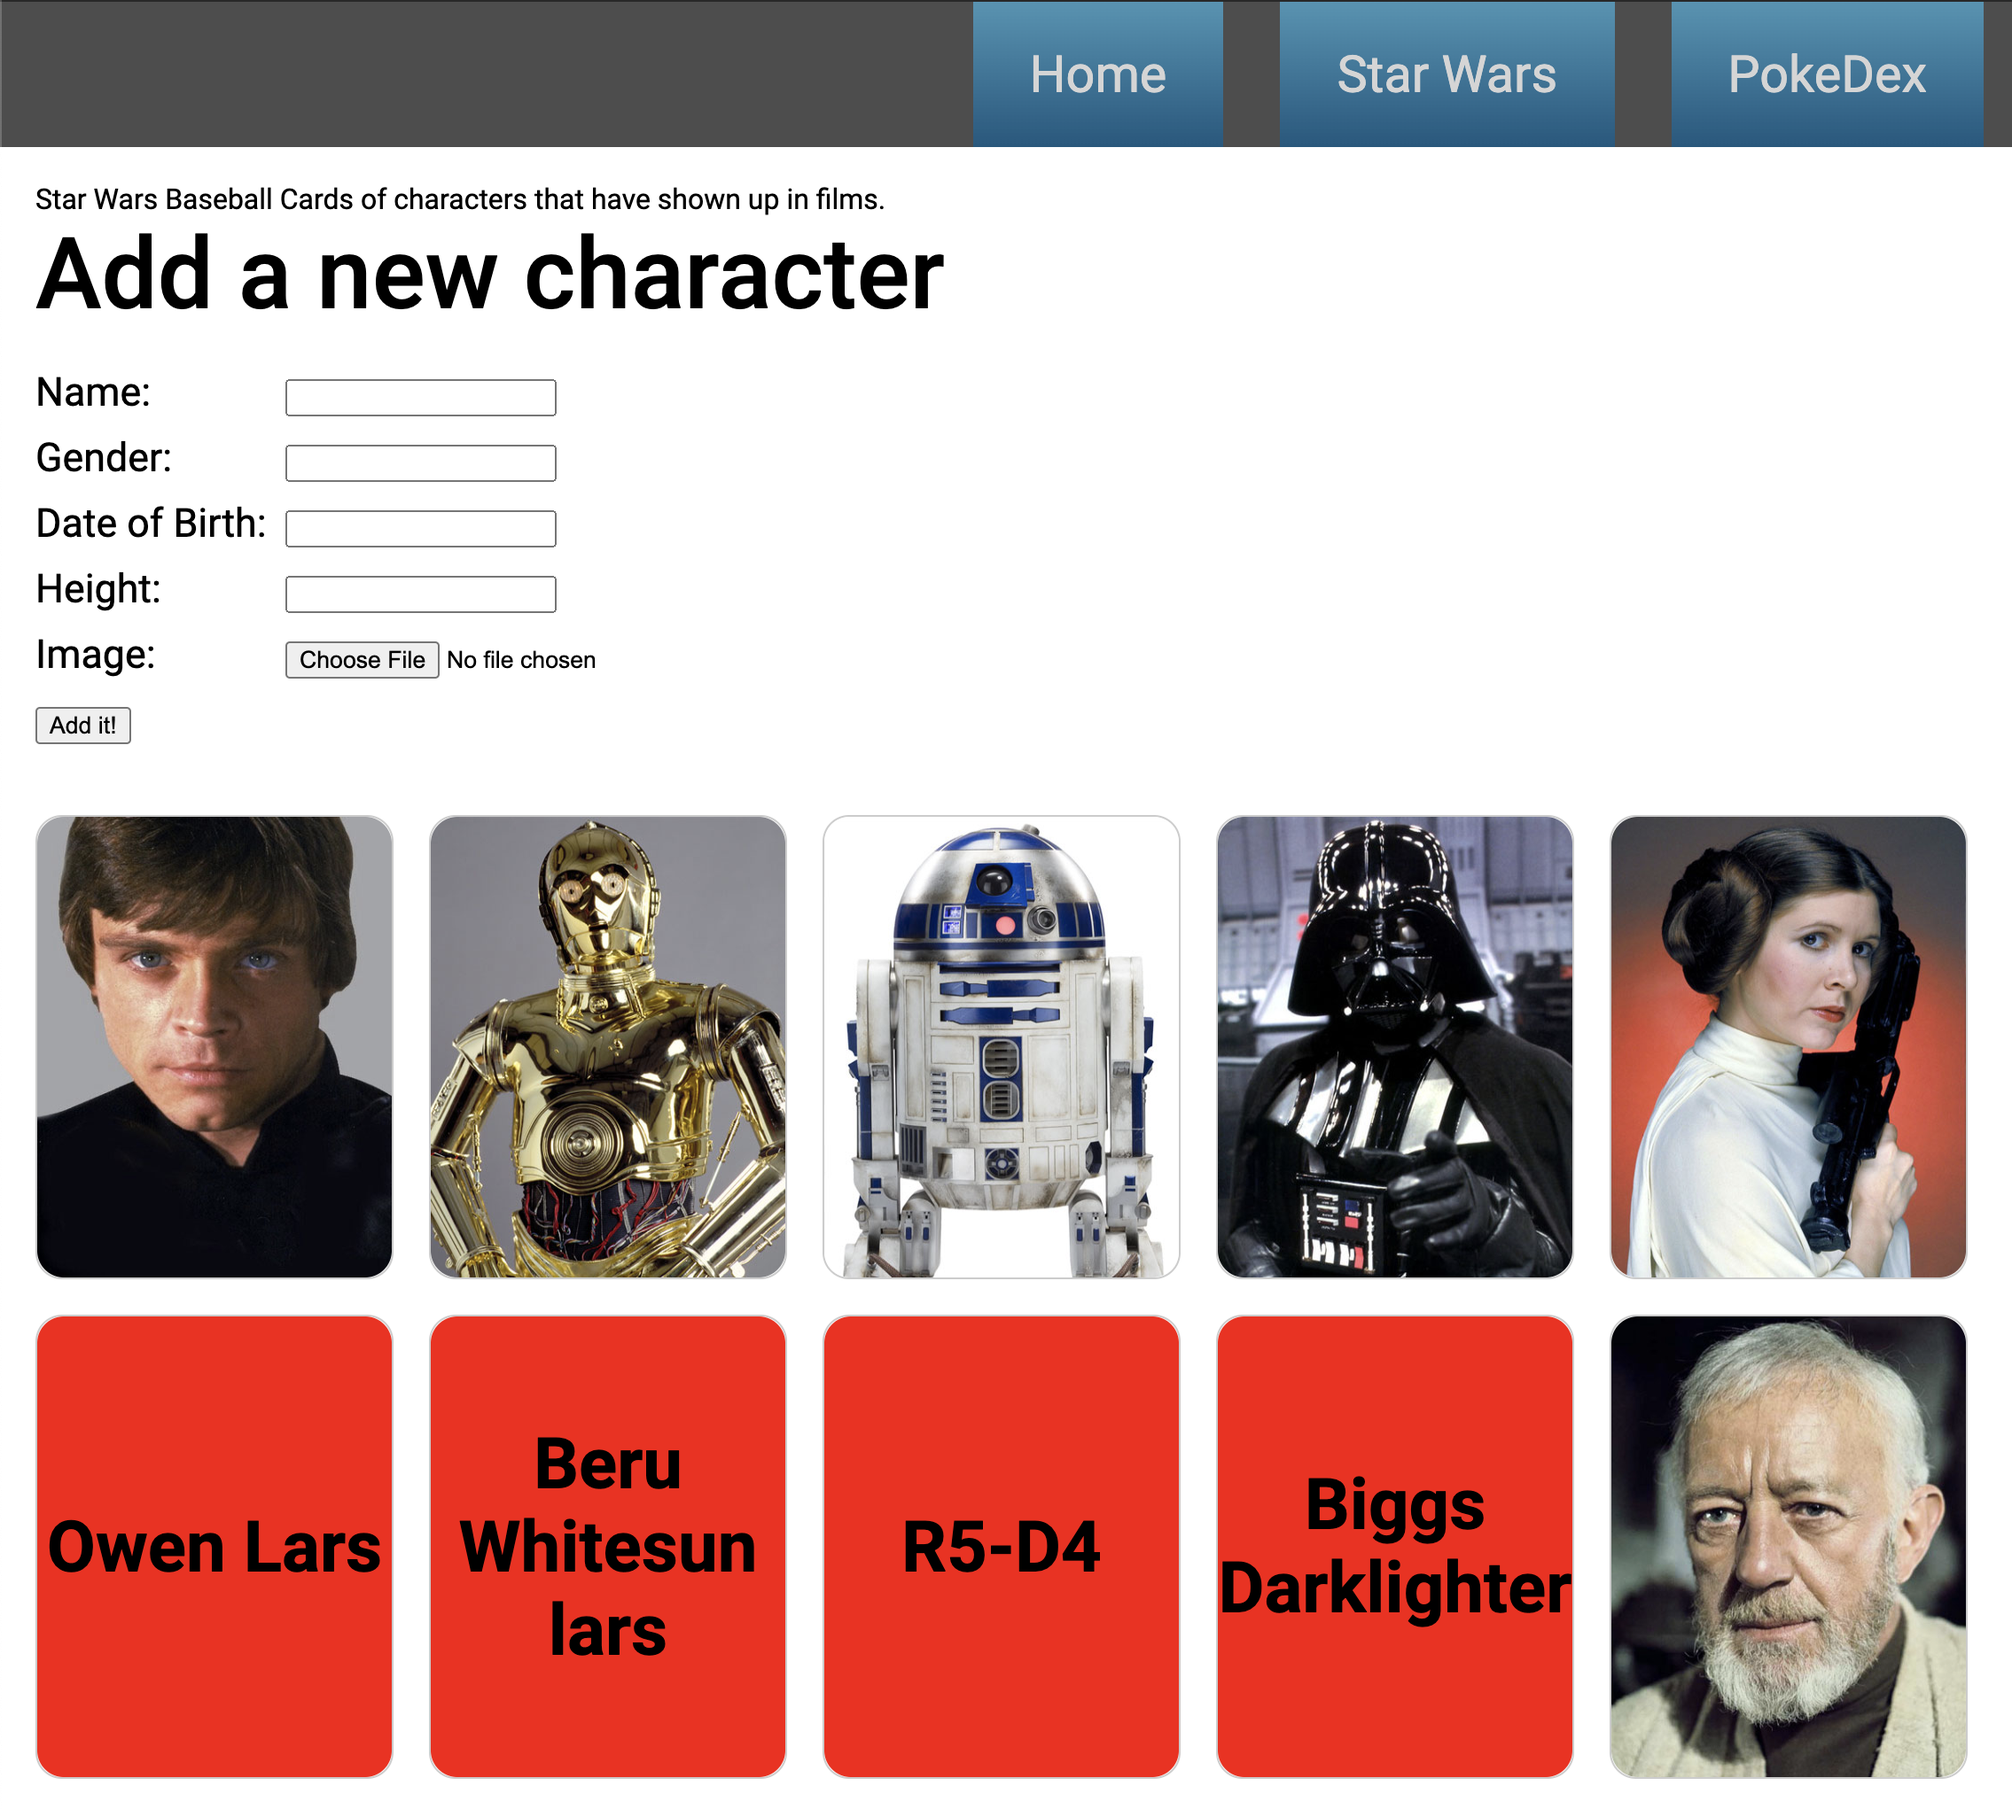
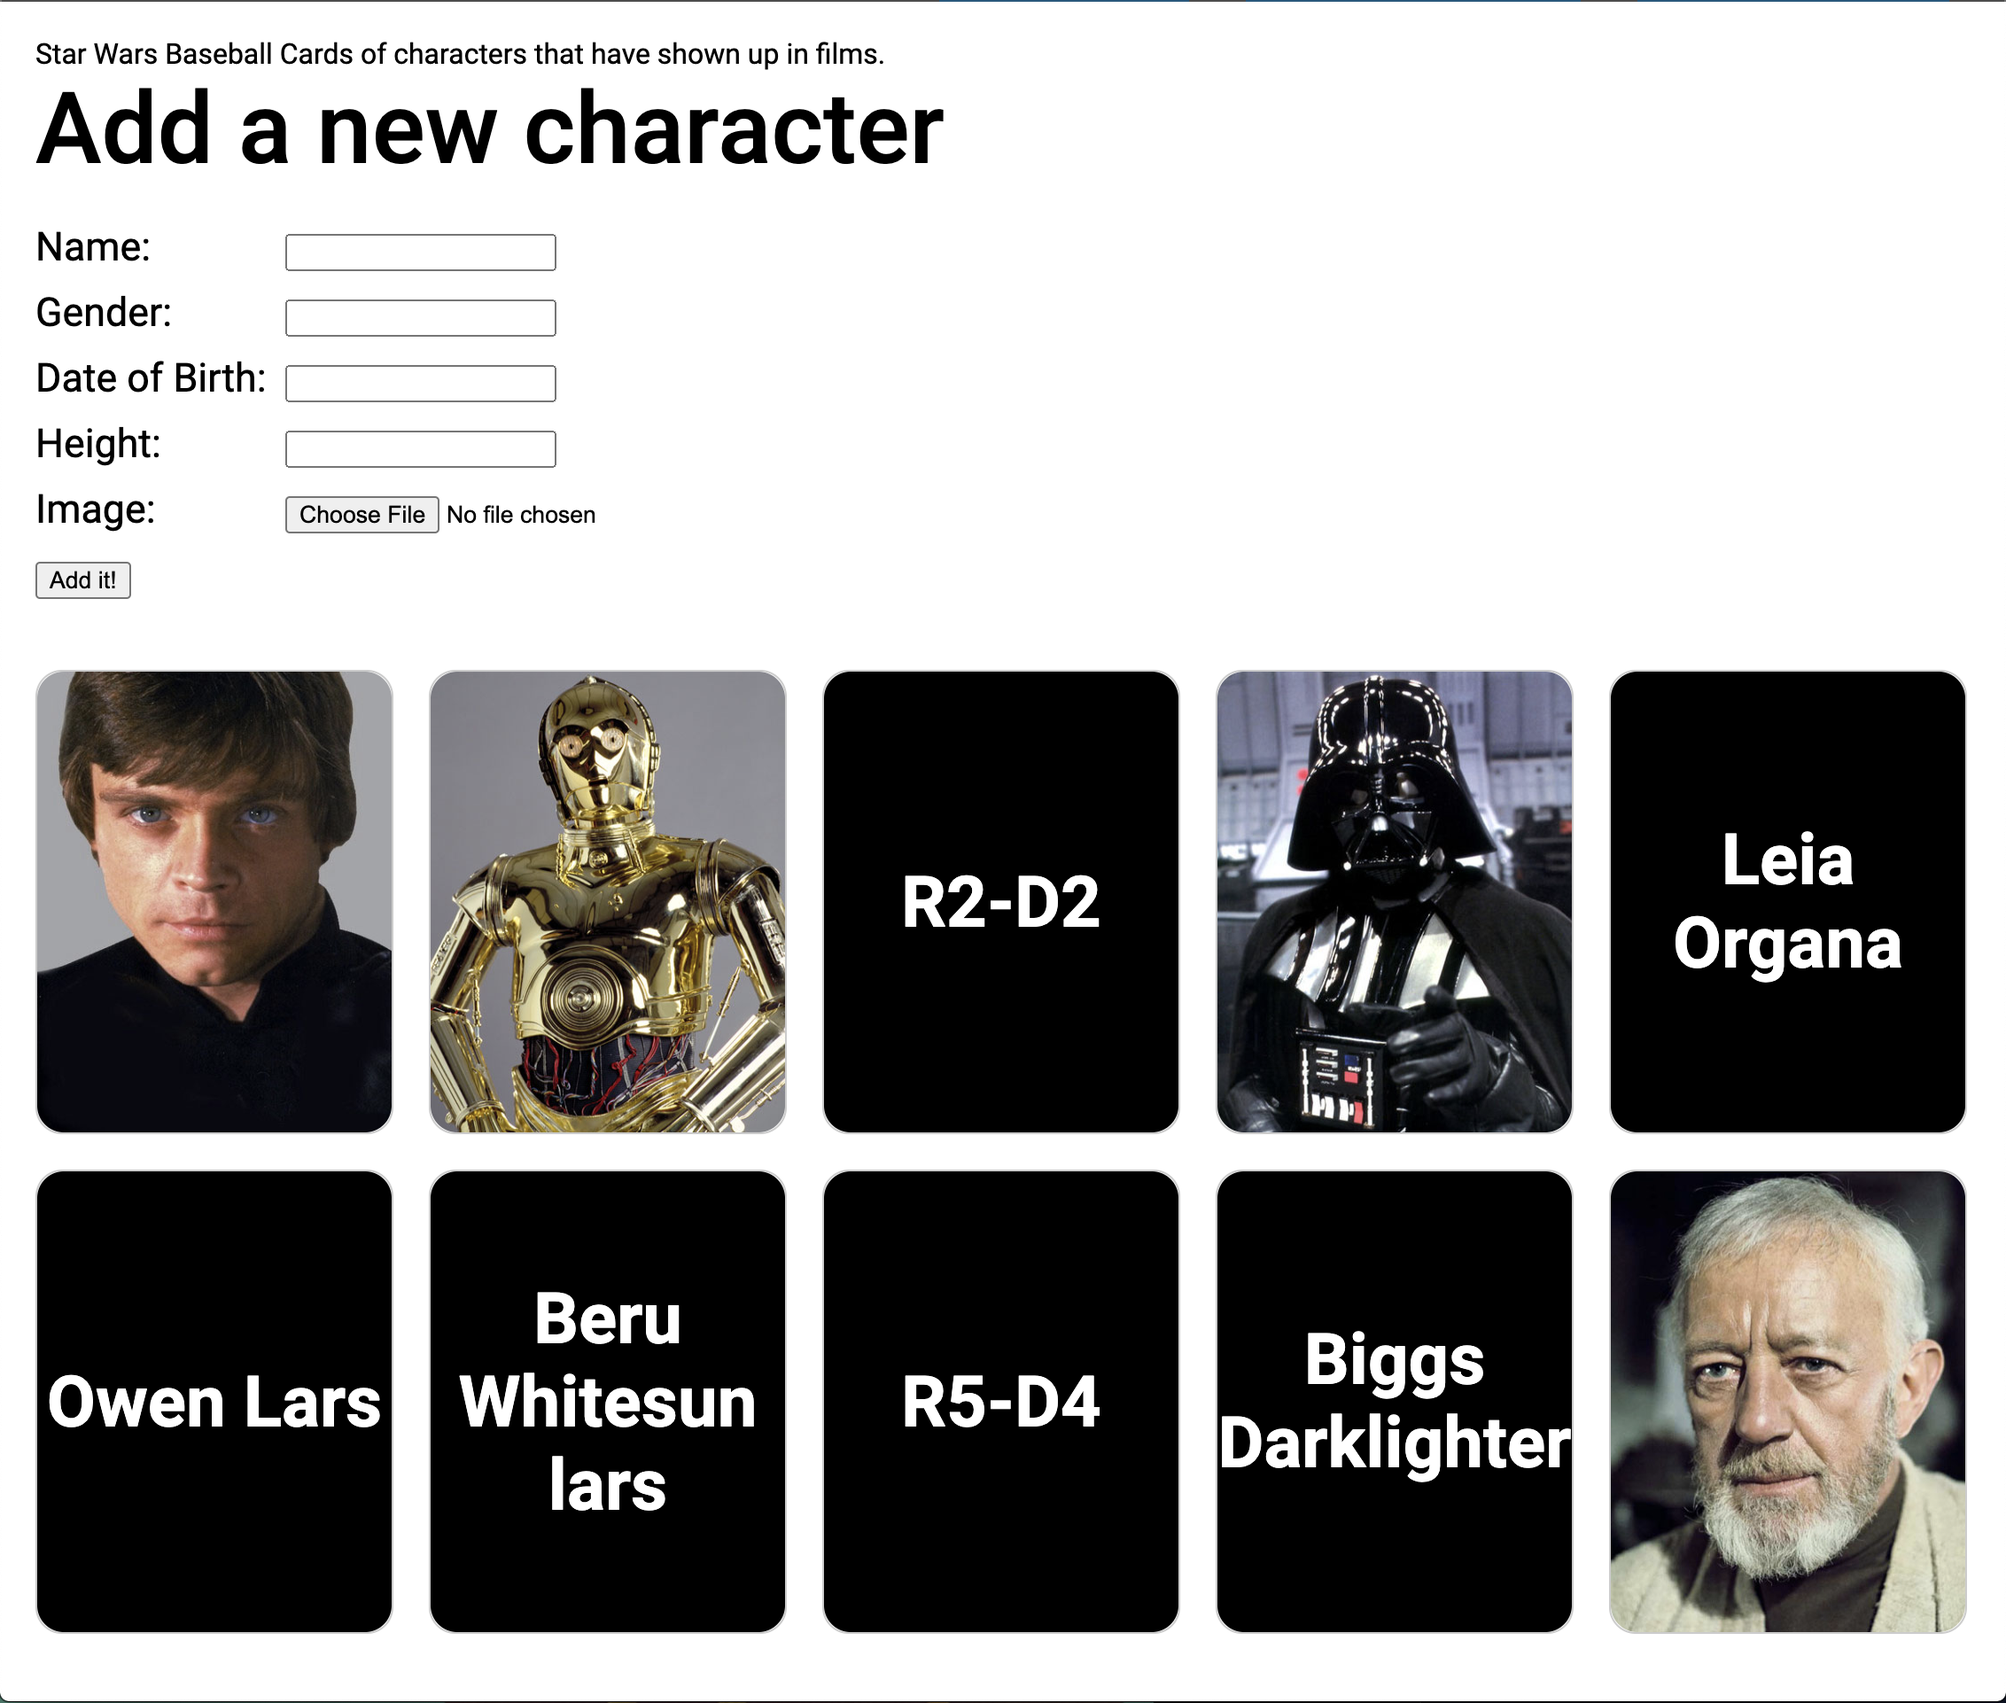
Edited size of font and edited the last section above the footer

diff --git a/index.html b/index.html
@@ -42,9 +42,7 @@
                         <h4>Old Wix Portfolio</h4>
                     </div>
                 </a>
-                <div id="project-image1">
-                    <p>Image gose here</p>
-                </div>
+                <div id="project-image1"></div>
             </div>
 
             <div class="project-tile">
@@ -53,9 +51,7 @@
                         <h4>Star Wars Project</h4>
                     </div>
                 </a>
-                <div id="project-image2">
-                    
-                </div>
+                <div id="project-image2"></div>
             </div>
 
             <div class="project-tile">
@@ -64,9 +60,7 @@
                         <h4>Pokedex</h4>
                     </div>
                 </a>
-                <div id="project-image3">
-                    <p>Image gose here</p>
-                </div>
+                <div id="project-image3"></div>
             </div>
 
             <div class="project-tile">
@@ -75,9 +69,7 @@
                         <h4>Medium Site</h4>
                     </div>
                 </a>
-                <div id="project-image4">
-                    <p>Image gose here</p>
-                </div>
+                <div id="project-image4"></div>
             </div>
 
             
@@ -87,9 +79,7 @@
                         <h4>YouTube Channel</h4>
                     </div>
                 </a>
-                <div id="project-image5">
-                    <p>Image gose here</p>
-                </div>
+                <div id="project-image5"></div>
             </div>
 
             <div class="project-tile">
@@ -98,16 +88,14 @@
                         <h4>Soundcloud Music Link</h4>
                     </div>
                 </a>
-                <div id="project-image6">
-                    <p>Image gose here</p>
-                </div>
+                <div id="project-image6"></div>
             </div>
         </div>
     </section>
 
     <section id="contact">
         <div id="contact-header">
-
+            <h3>Contact Me!</h3>
         </div>
         <div id="contact-body">
             <a target="_blank" id="profile-link" href="https://github.com/Tornanome">

diff --git a/styles/style.css b/styles/style.css
@@ -250,14 +250,21 @@ img {
 
 #contact {
   display: flex;
+  flex-direction: column;
   justify-content: center;
   align-items: center;
   height: 300px;
   background-image: linear-gradient(to bottom right, #11587F, #4395B4);
 }
 
+#contact-header {
+  display: flex;
+  padding-bottom: 20px;
+}
+
 #contact-body {
   display: flex;
+  flex-direction: row;
   justify-content: center;
   align-items: center;
 }
@@ -265,7 +272,7 @@ img {
 .social-link {
   background-color: #55AD7A;
   margin: 20px;
-  padding: 35px 45px;
+  padding: 25px 35px;
 }
 
 .social-link a {

diff --git a/styles/javascript-pages.css b/styles/javascript-pages.css
@@ -143,6 +143,7 @@ color: #D5D5D5;
     transform-style: preserve-3d;
     cursor: pointer;
     position: relative;
+    color: white;
 }
 
 .card.is-flipped {
@@ -162,7 +163,7 @@ color: #D5D5D5;
 }
   
 .card__face--front {
-    background: red;
+    background: black;
     align-items: center;
     border-radius: 15px;
 }
